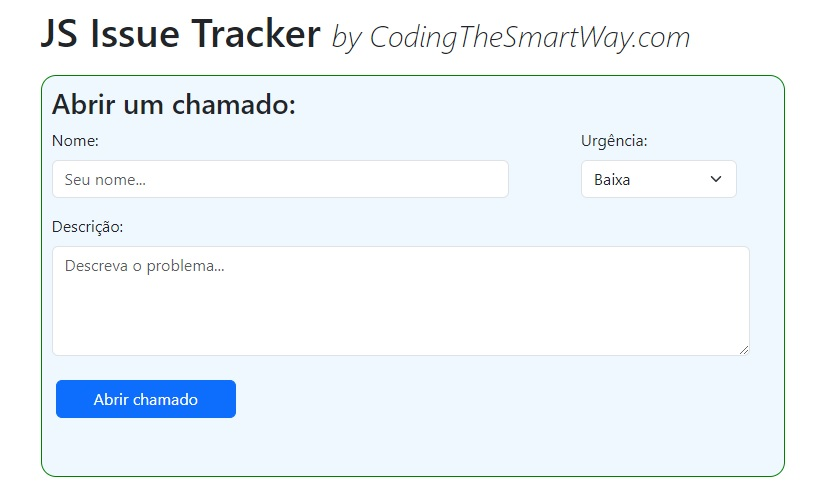
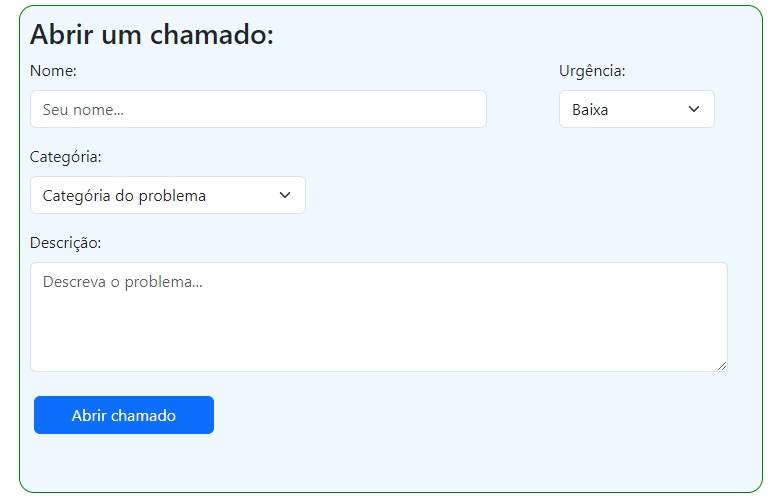
Categoria de problemas

diff --git a/main.js b/main.js
@@ -8,6 +8,7 @@ function saveIssue(e) {
     let issueDesc = document.querySelector("#issueDescInput").value;
     let issueSeverity = document.querySelector("#issueSeverityInput").value;
     let issueAssignedTo = document.querySelector("#issueAssignedToInput").value;
+    let issueCategory = document.querySelector("#issueCategory").value;
     let issueStatus = "Open";
 
     const date = new Date().toLocaleDateString();
@@ -21,6 +22,7 @@ function saveIssue(e) {
         severity: issueSeverity,
         assignedTo: issueAssignedTo,
         status: issueStatus,
+        category: issueCategory,
         createdAt: `${date} - ${time}`,
         closedAt: null
     };
@@ -88,6 +90,7 @@ function fetchIssues() {
         let severity = issues[c].severity;
         let assignedTo = issues[c].assignedTo;
         let status = issues[c].status;
+        let category = issues[c].category;
         let createdAt = issues[c].createdAt;
         let closedAt = issues[c].closedAt;
         let classStatus;
@@ -101,13 +104,19 @@ function fetchIssues() {
         //Adicionando as issues.
         issuesList.innerHTML += `
             <div class="issue row mb-2">
-                <p class="h6 col-md-12 text-center"> Issue ID: ${id} </p><span class="statusDetail text-center mb-2"> Aberto: ${createdAt} ${closedAt ? ` | Fechado: ${closedAt} `: ""}</span>
+                <p class="h6 col-md-12 text-center"> Issue ID: ${id} </p>
+                <span 
+                    class="statusDetail text-center mb-2"
+                    > 
+                    Aberto: ${createdAt} ${closedAt ? ` | Fechado: ${closedAt} `: ""}
+                </span>
                 <hr>
                 <p class="col-md-1 me-3">
                     <span class="label label-info btn ${classStatus} mt-4 statusBtn">${status}</span>
                 </p>
                 <div class="statusInfo mt-2 col-md-10">
-                    <p class="h6 mb-4"> #${desc} </p>
+                    <p class="h5 mb-2"> #${category} </p>
+                    <p class="mb-4">${desc} </p>
                     <p>
                         <i class="bi bi-stopwatch"></i> <span class="me-3">${severity}</span>
                         <i class="bi bi-person-fill"></i> <span>${assignedTo}</span>
@@ -134,3 +143,5 @@ function fetchIssues() {
             `;
     }
 }
+
+fetchIssues();

diff --git a/index.html b/index.html
@@ -31,7 +31,7 @@
     <script src="main.js" defer></script>
     <title>Issue Track - JS</title>
   </head>
-  <body onload="fetchIssues()">
+  <body>
     <div class="container">
       <h1>
         JS Issue Tracker <span class="italic">by CodingTheSmartWay.com</span>
@@ -54,6 +54,21 @@
               <option value="Baixa">Baixa</option>
               <option value="Média">Média</option>
               <option value="Alta">Alta</option>
+            </select>
+          </div>
+          <div class="mb-3 col-md-5">
+            <label for="issueCategory" class="form-label">Categória:</label>
+            <select id="issueCategory" class="form-select">
+              <option value="" selected disabled>Categória do problema</option>
+              <option value="Funcionamento do sistema">
+                Problemas de sistema
+              </option>
+              <option value="Desempenho">Problemas de desempenho</option>
+              <option value="Instalação">Problemas de instalação</option>
+              <option value="Usuário">Problemas de usuário</option>
+              <option value="Integração">Problemas de integração</option>
+              <option value="Segurança">Problemas de segurança</option>
+              <option value="Recursos">Problemas de recursos</option>
             </select>
           </div>
           <div class="mb-4 col-md-12">
